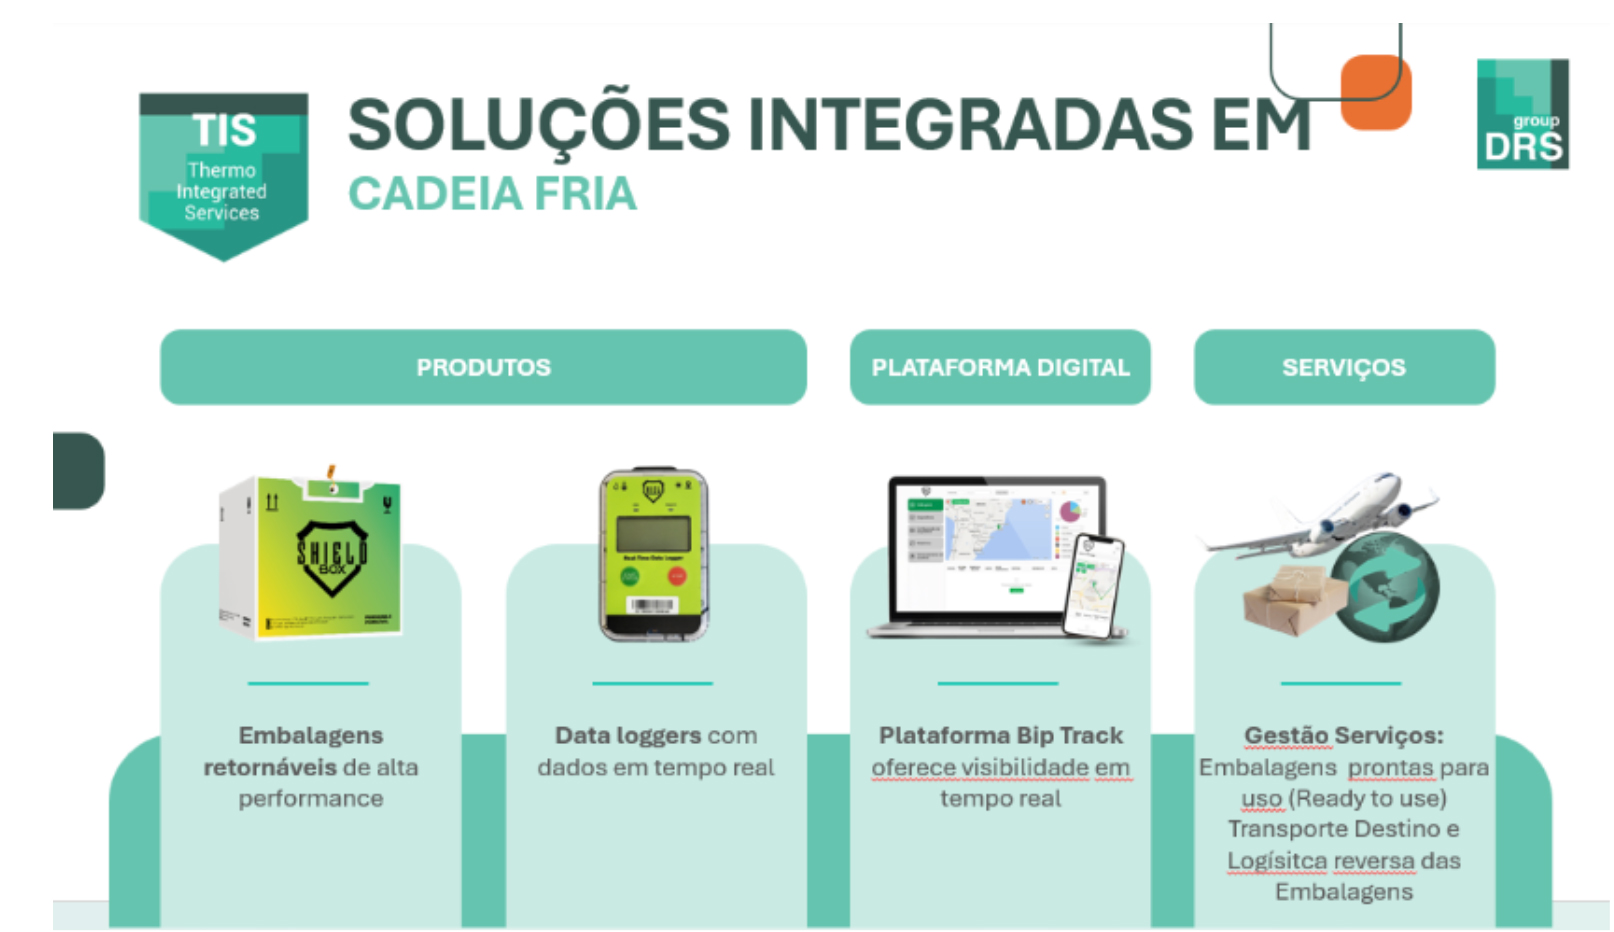
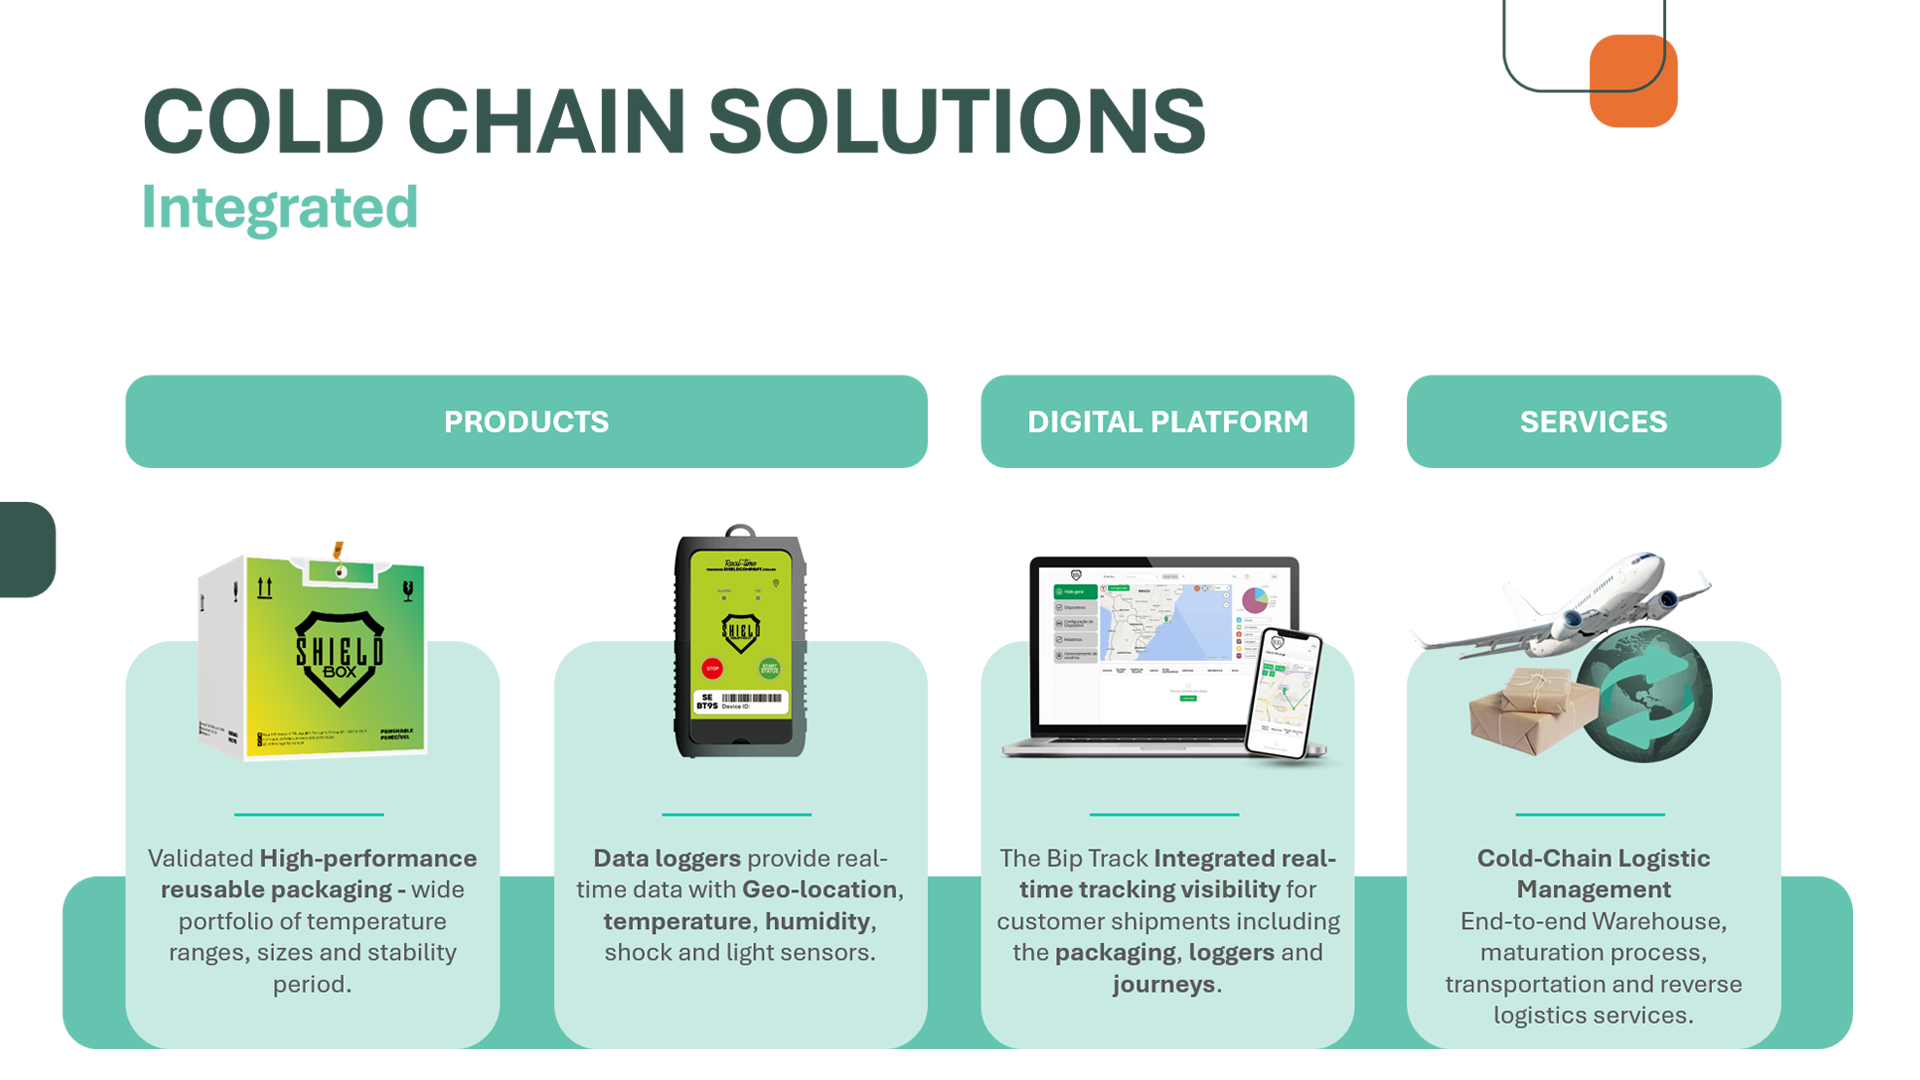
troca de imagens e ajuste modal e textos traducoes

diff --git a/src/components/ui/SolutionModal.tsx b/src/components/ui/SolutionModal.tsx
@@ -24,9 +24,10 @@ interface SolutionModalProps {
   open: boolean;
   onOpenChange: (open: boolean) => void;
   data: SolutionModalData | null;
+  wideOnDesktop?: boolean;
 }
 
-export function SolutionModal({ open, onOpenChange, data }: SolutionModalProps) {
+export function SolutionModal({ open, onOpenChange, data, wideOnDesktop = false }: SolutionModalProps) {
   const { t } = useTranslation();
   const [showHint, setShowHint] = React.useState(false);
 
@@ -76,7 +77,9 @@ export function SolutionModal({ open, onOpenChange, data }: SolutionModalProps) 
   return (
     <Dialog open={open} onOpenChange={onOpenChange}>
     <DialogContent
-    className="my-4 w-[calc(100%-2rem)] max-w-2xl border-0 p-0 sm:my-8 sm:w-full"
+    className={`my-4 w-[calc(100%-2rem)] max-w-2xl border-0 p-0 sm:my-8 sm:w-full ${
+      wideOnDesktop ? 'lg:w-[calc(100%-4rem)] lg:!max-w-4xl' : ''
+    }`}
     style={{
       background: 'none',
       borderRadius: '0'
@@ -116,7 +119,11 @@ export function SolutionModal({ open, onOpenChange, data }: SolutionModalProps) 
     {data.title}
     </DialogTitle>
     </DialogHeader>
-    <div className="content-scroll" data-lenis-prevent onScroll={() => setShowHint(false)}>
+    <div
+    className={`content-scroll ${wideOnDesktop ? 'lg:!h-[430px]' : ''}`}
+    data-lenis-prevent
+    onScroll={() => setShowHint(false)}
+    >
     <p
     className="mb-6"
     style={{

diff --git a/src/pages/areas/TIS.tsx b/src/pages/areas/TIS.tsx
@@ -195,7 +195,12 @@ export default function TIS() {
     </div>
     </section>
 
-    <SolutionModal open={modalOpen} onOpenChange={setModalOpen} data={selectedSolution} />
+    <SolutionModal
+      open={modalOpen}
+      onOpenChange={setModalOpen}
+      data={selectedSolution}
+      wideOnDesktop
+    />
     </Layout>
   );
 }
